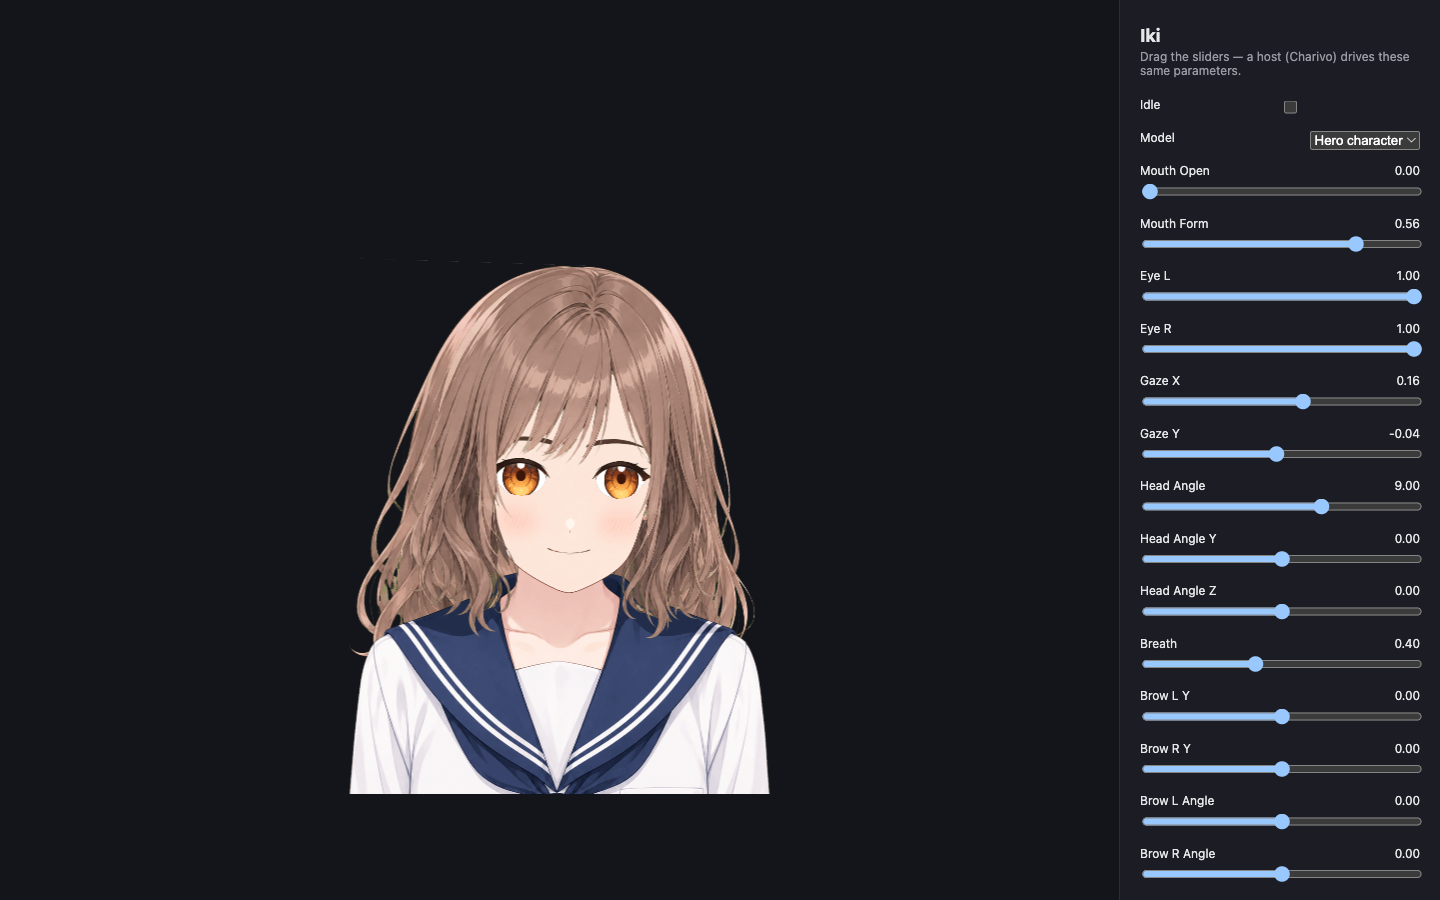
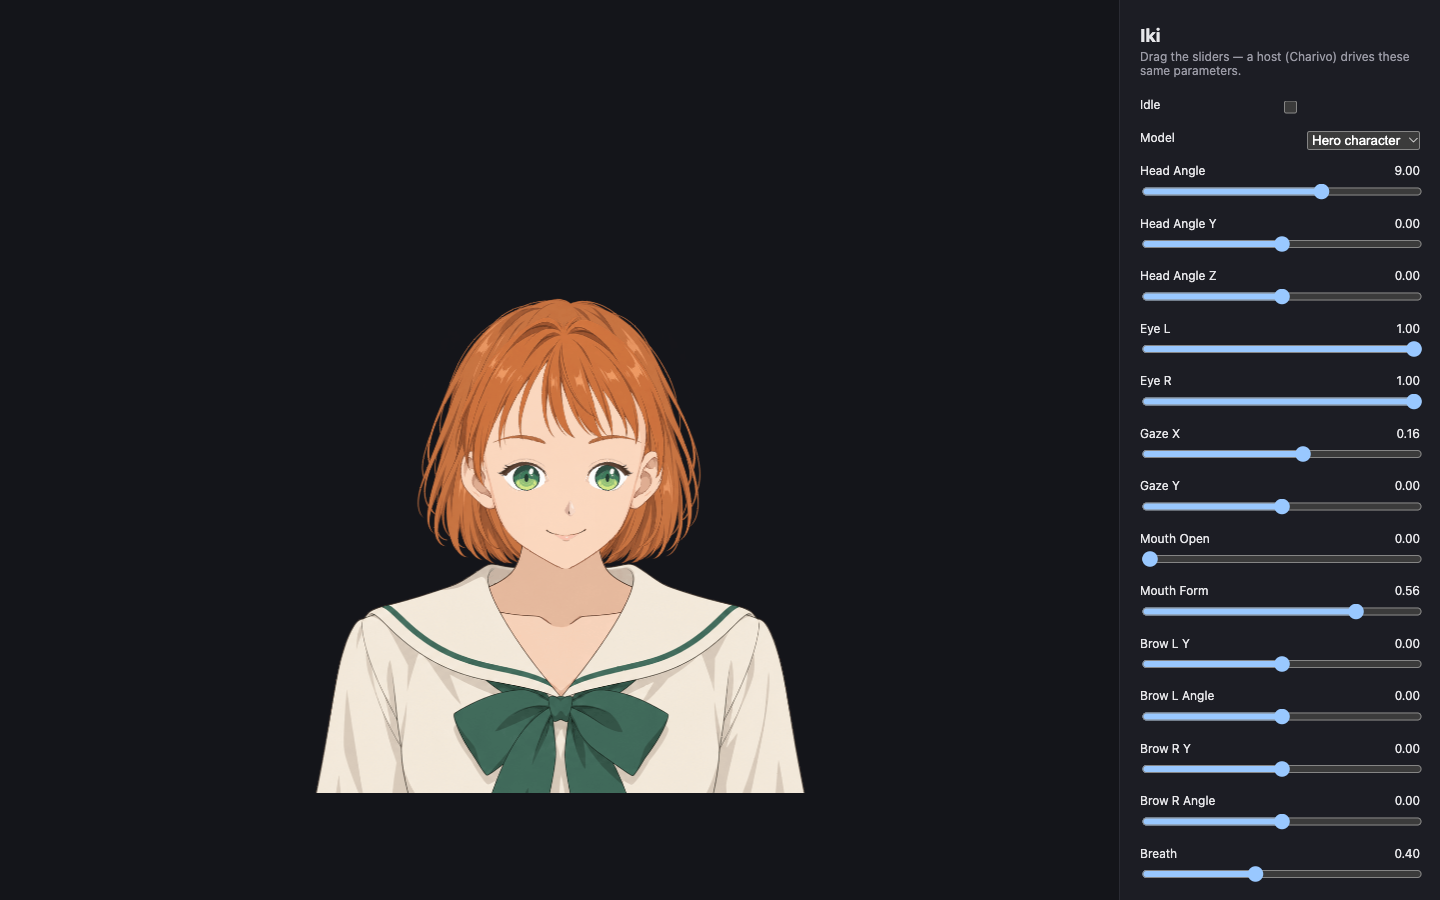
docs(projects): bring iki up to date
The plugin now draws a character's parts with an image model before
rigging them, so the description, opening and agent section lead with
that. Adds blush/torso roles, breathing, measure_turn_reference, the
image-generator prerequisite and the live landing-page hero. The
screenshot shows the current hero instead of the retired one.

resume.html's Iki blurb paraphrases the description, so it follows.

diff --git a/resume.html b/resume.html
@@ -140,8 +140,8 @@ redirect_from:
         <article class="resume-project">
           <h3><a href="{{ '/projects/iki/' | relative_url }}">Iki</a></h3>
           <p>
-            Open-source 2D rig engine for the web, with an MCP server and a Claude Code plugin that let
-            an AI agent rig and animate a character from layered art.
+            Open-source 2D puppet engine for the web and a Live2D alternative, whose Claude Code plugin has
+            an image model draw a character's parts and then rigs them over MCP.
           </p>
           <div class="project-tags">
             <span>TypeScript</span>

diff --git a/_projects/iki.md b/_projects/iki.md
@@ -1,7 +1,7 @@
 ---
 layout: project
 title: "Iki"
-description: "MIT-licensed 2D rig engine for the web, with an MCP server and a Claude Code plugin that let an AI agent rig a character from layered art."
+description: "Open, MIT-licensed 2D puppet engine for the web, a Live2D alternative whose Claude Code plugin has an image model draw a character's parts and then rigs them over MCP."
 tech_stack:
   [
     "TypeScript",
@@ -21,15 +21,15 @@ gadget_no: 17
 date: 2026-06-04
 ---
 
-**Iki** (息 breath · 生き life · 粋 chic) is a 2D puppet rig engine for the web, and an AI agent can build its rigs: give it a character's art as separate layers and a rigged, animated model comes back. Live2D Cubism is the industry standard and [Inochi2D](https://inochi2d.com/) the established open alternative. I made Iki because I couldn't find a permissive license, a plain-text format, and a rig an agent can build in one place.
+**Iki** (息 breath · 生き life · 粋 chic) is a 2D puppet rig engine for the web, and an AI agent can build its characters: describe one, and an image model draws the parts and the auto-rigger turns them into a rigged, animated model. Art of your own works too, as separate layers. Live2D Cubism is the industry standard and [Inochi2D](https://inochi2d.com/) the established open alternative. I made Iki because I couldn't find a permissive license, a plain-text format, and a rig an agent can build in one place.
 
-## An agent does the rigging
+## An agent draws and rigs the character
 
-- **What goes in:** transparent PNG layers named by role, or one layered PSD in the editor. `face`, `eye_L`, `eye_R` and `mouth` are required; irises, brows, lashes, nose, hair, and body are optional.
-- **What comes out:** a validated `.iki` model that blinks, gazes, lip-syncs, turns, nods and tilts its head, and moves its brows, with hair swaying on physics. On a turn the nose leads, the features slide across the face, and the back hair trails behind, so it reads as a head rotating rather than a cutout sliding.
-- **How an agent drives it:** the `@ikijs/mcp` server exposes `auto_rig_from_layers`, plus `compose_layers_from_parts` to place generated part images on a shared canvas and `measure_layers`, a geometry report that catches an iris the wrong size for its eye or a cropped edge before it costs another round of image generation.
+- **What goes in:** a text description, from which the plugin generates each part, or your own transparent PNG layers named by role, or one layered PSD in the editor. `face`, `eye_L`, `eye_R` and `mouth` are required; irises, brows, lashes, nose, blush, hair, and torso are optional.
+- **What comes out:** a validated `.iki` model that blinks, gazes, lip-syncs, turns, nods and tilts its head, moves its brows, and breathes, with hair swaying on physics. On a turn the nose leads, the features slide across the face, and the back hair trails behind, so it reads as a head rotating rather than a cutout sliding.
+- **How an agent drives it:** the `@ikijs/mcp` server exposes `auto_rig_from_layers`, plus `compose_layers_from_parts` to place generated part images on a shared canvas and `measure_layers`, a geometry report that catches an iris the wrong size for its eye or a cropped edge before it costs another round of image generation. `measure_turn_reference` measures how far a head turns between a front and a turned reference image, so the rig's turn can be fitted to it.
 
-The Claude Code plugin bundles the server with two skills: a single pass from a text description to a finished `.iki`, and a generator/critic loop in which an artist agent draws and re-rigs while a critic agent scores the render against a reference image until it's worth shipping.
+The Claude Code plugin bundles the server with two skills: a single pass from a text description to a finished `.iki`, and a generator/critic loop in which an artist agent draws and re-rigs while a critic agent scores the render against a reference image until it's worth shipping. Drawing the parts needs an image generator; the prompts were tuned against Codex CLI's built-in image generation.
 
 ```
 /plugin marketplace add zeikar/iki
@@ -50,6 +50,6 @@ The validator fails fast and names the exact path, e.g. `parts[3].mesh.indices[1
 
 ## Using it
 
-The format, engine, a headless editing core, and the MCP server are on npm under `@ikijs`. The [playground](https://zeikar.dev/iki/playground/) moves a generated character with the same sliders a host would drive. The [editor](https://zeikar.dev/iki/editor/) authors parts, deformers, and physics rigs and exports a validated `.iki`. It's still early and the schema is settling; for production-grade rigging today, use Cubism.
+The format, engine, a headless editing core, and the MCP server are on npm under `@ikijs`. The [landing page](https://zeikar.dev/iki/) plays the generated hero live, its head and eyes following the mouse, and the [playground](https://zeikar.dev/iki/playground/) moves it with the same sliders a host would drive. The [editor](https://zeikar.dev/iki/editor/) authors parts, deformers, and physics rigs and exports a validated `.iki`. It's still early and the schema is settling; for production-grade rigging today, use Cubism.
 
 [Charivo](/projects/charivo/) dogfoods it through a private `render-iki` adapter that its CI builds against Iki's published engine; Charivo's published renderer and demos still use Live2D.
